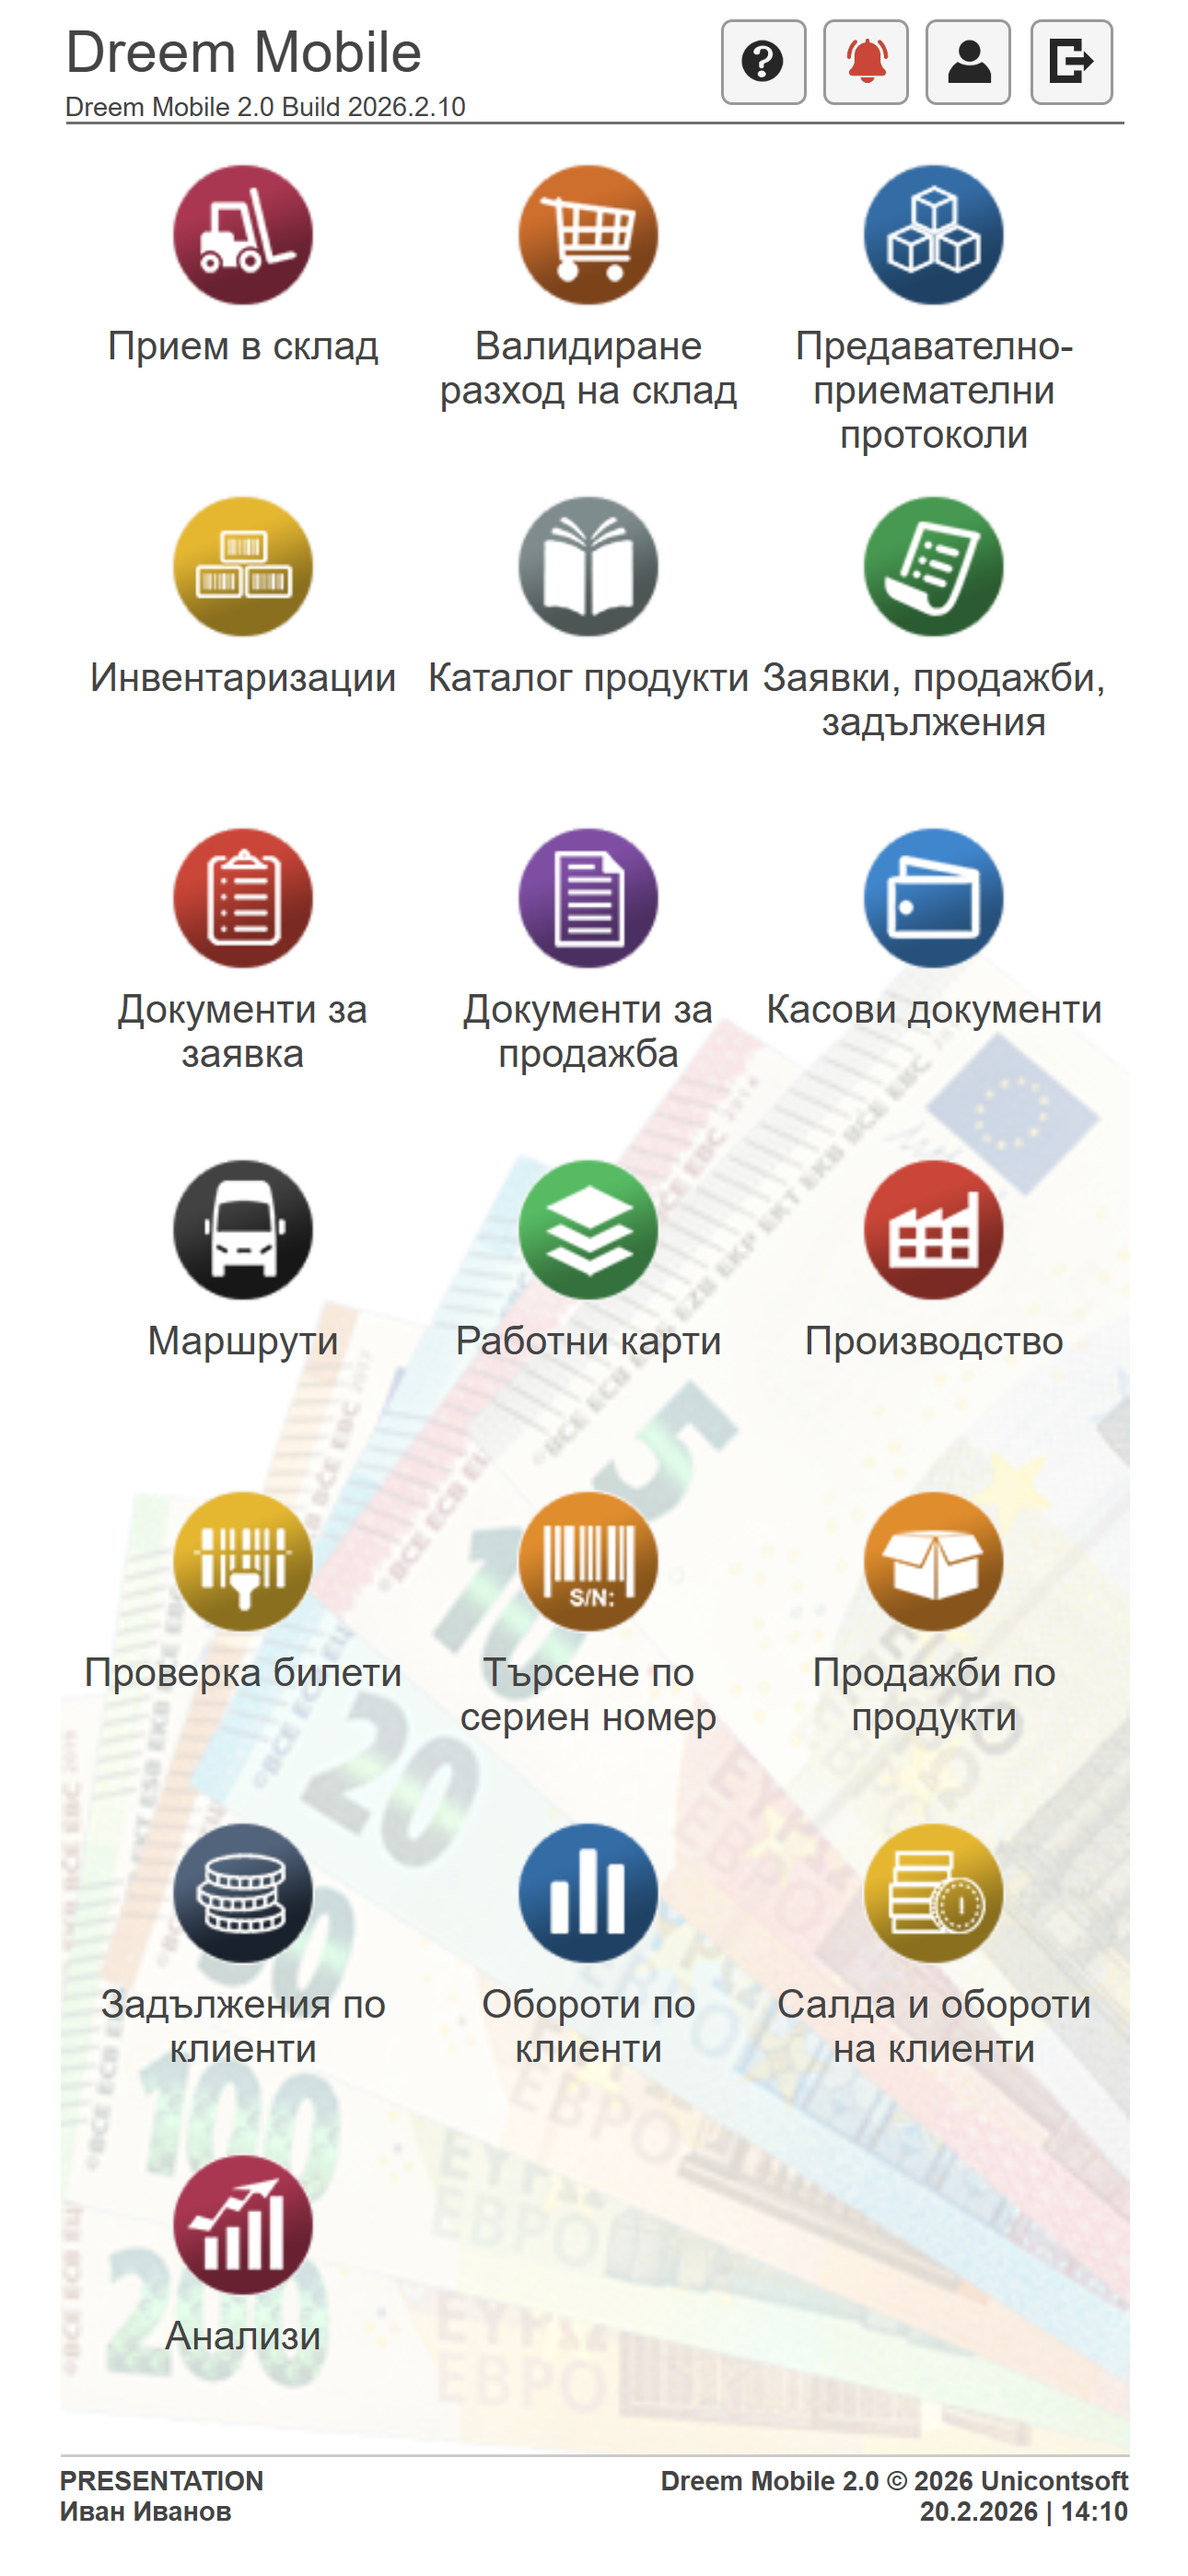
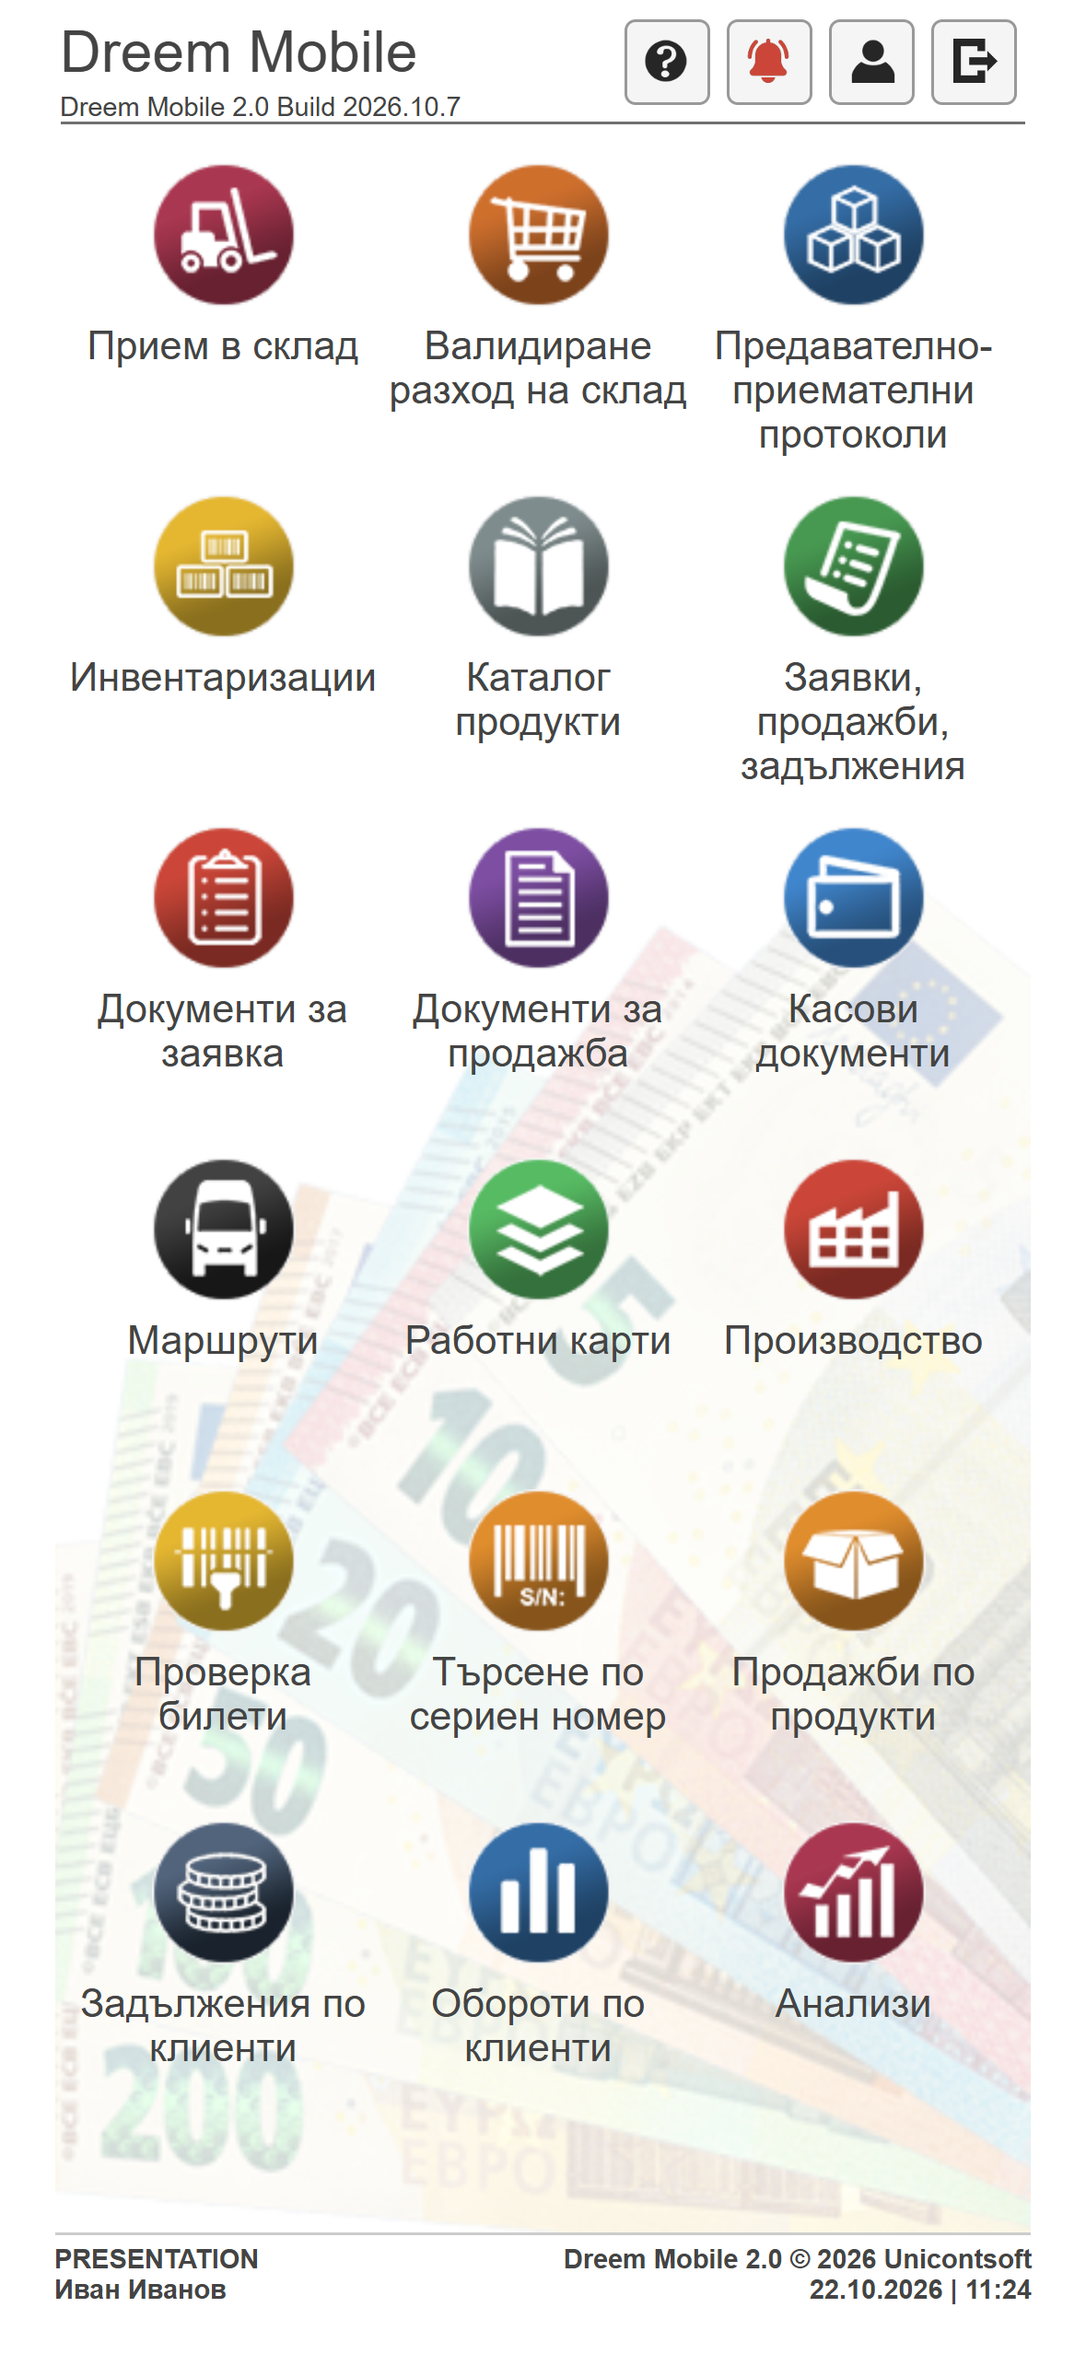
Редактиране справки Dreem Mobile

diff --git a/guide/mob/003-mob-rep/002-trade/000-index.md b/guide/mob/003-mob-rep/002-trade/000-index.md
@@ -10,13 +10,16 @@
 > Данните в справките варират спрямо приложените филтри.  
 Показаните резултати се базират единствено на данни от документи, до които потребителят има достъп.     
 
-Справките могат да бъдат записани във файл чрез бутон [**Експорт**] .  
+Справките могат да бъдат записани във файл чрез бутон [**Експорт**].  
+С бутон [**Напред**] се отваря форма с допълнителна информация за маркирания ред от справката.  
 
 ## **Продажби по продукти**
 
-Справката показва информация с реализираните продажби за избран период от време.  
+Справката показва информация с реализираните продажби по продукти за избран период от време.  
 
 ![](900-index1.png){ class=align-center w=7cm }
+
+> При маркиране на ред и избор на бутон [**Напред**] се отваря форма с детайлна информация за продукта. Тя включва списък с контрагенти, общо продаденото им количество от продукта и стойността с ДДС.  
 
 Системата позволява филтриране на данните по продукти, дименсии, контрагенти и/или обекти.  
 
@@ -24,9 +27,16 @@
 
 ## **Задължения по клиенти**
 
-Справката показва натрупани задължения на клиенти към избрана дата.  
+Справката показва стойност на натрупаните задължения на клиенти към избрана дата.  
 
 ![](900-index3.png){ class=align-center w=7cm }
+
+> При маркиране на ред и избор на бутон [**Напред**] се отваря форма с детайлна информация за контаргента. Тя включва списък с документи и задължения за периода.  
+Показва следните:    
+>  - *Документ* - Тип, номер, дата, падеж и просрочие на документа;    
+>  - *Стйност с ДДС* - обща стойност с ДДС на документа;    
+>  - *Платено* - стойност на плащанията по документа;    
+>  - *Задължение* - остатък за плащане по документа;    
 
 Системата позволява филтриране на данните по типове документи, контрагенти, дименсии и/или обекти.  
 
@@ -38,32 +48,27 @@
 
 ![](900-index5.png){ class=align-center w=7cm }
 
+> При маркиране на ред и избор на бутон [**Напред**] се отваря форма с детайлна информация за контаргента. Тя включва списък с документи, оборот и задължения за избрания период.  
+Показва следните:    
+>  - *Документ* - Тип, номер, дата, падеж и просрочие на документа;    
+>  - *Стйност с ДДС* - обща стойност с ДДС на документа;    
+>  - *Платено* - стойност на плащанията по документа;    
+>  - *Задължение* - остатък за плащане по документа;    
+
 Системата позволява филтриране на данните за период по типове документи, контрагенти, дименсии и/или обекти.  
 
 ![](900-index6.png){ class=align-center w=7cm }
-
-## **Салда и обороти на клиенти**
-
-Справката показва дължими суми в началото на избран период, обороти, платено и салдо в края на периода по контрагенти.  
-
-Данните могат да бъдат сортирани по: крайно салдо, оборот, платени или начално салдо.  
-
-![](900-index7.png){ class=align-center w=7cm }
-
-Системата позволява филтриране на данните за период по контрагенти и дименсии.    
-
-![](900-index8.png){ class=align-center w=7cm }
 
 ## **Анализи**
 
 Справката показва анализ на общте приходи от продажби.  
 Данните се визуализират по месеци.  
 
-![](900-index9.png){ class=align-center w=7cm }
+![](900-index7.png){ class=align-center w=7cm }
 
 Системата позволява филтриране на данните с или без ДДС по месеци.    
 
-![](900-index10.png){ class=align-center w=7cm }
+![](900-index8.png){ class=align-center w=7cm }
 
 ```{toctree}
 :maxdepth: 1
